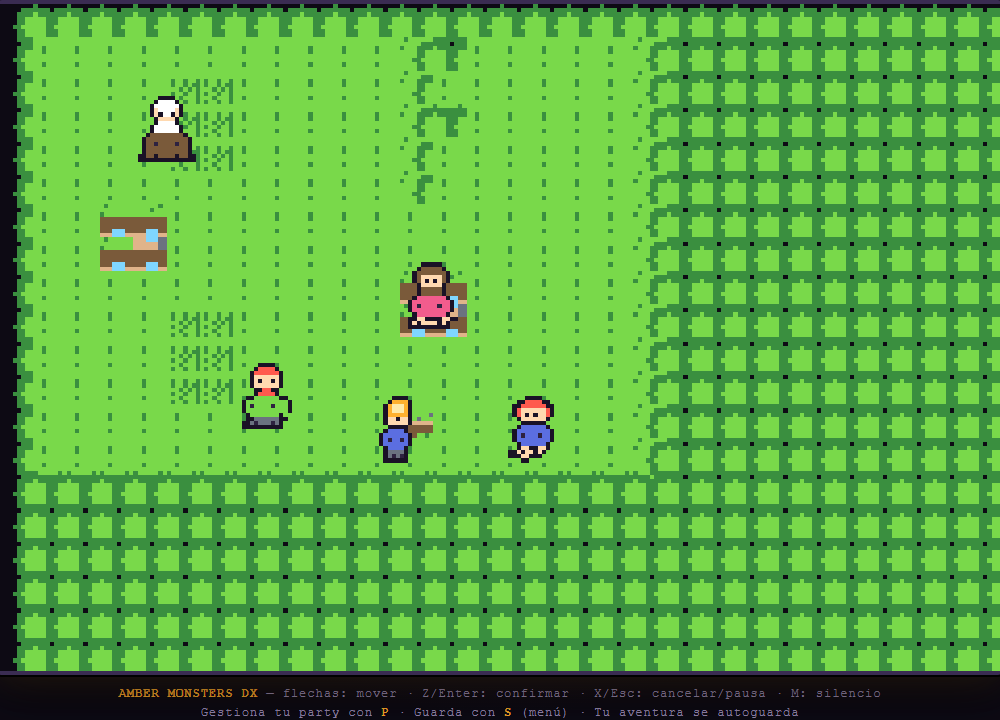
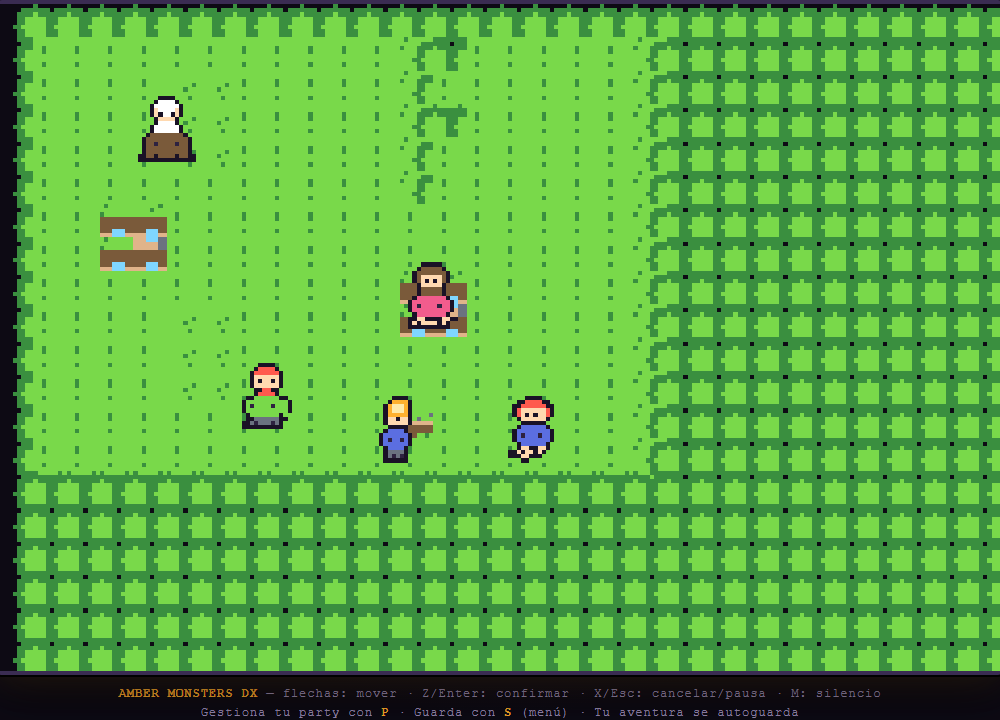
fix: distinguir hierba decorativa de la de encuentros en la aldea
La aldea tenia parches de hierba alta (^) identicos a la de la Ruta/Cueva,
pero encounter:null → parecian zonas de pelea y no disparaban nada (trampa de
UX). Nuevo tile 'G' (arbusto bajo) para la decoracion de la aldea; la hierba
alta real solo existe donde hay encuentros.

Changed region(s): [[0.155, 0.4278, 0.248, 0.5806], [0.155, 0.0917, 0.248, 0.2444]]

diff --git a/src/sprites/tiles.js b/src/sprites/tiles.js
@@ -58,6 +58,15 @@ function makeHighGrass(seed = 3) {
   return m;
 }
 
+// ---- Arbusto bajo (decorativo, NO dispara encuentros; se distingue de la hierba alta) ----
+function makeBush(seed = 13) {
+  const m = makeGrass(seed);
+  // manchas verdes oscuras bajas, sin mechones verticales altos
+  for (let x = 2; x < 16; x += 4) { m[10][x] = 11; m[11][x] = 11; }
+  for (let x = 4; x < 16; x += 5) { m[12][x] = 11; m[13][x] = 11; }
+  return m;
+}
+
 // ---- Árbol: copa redonda + tronco ----
 function makeTree() {
   const m = blank();
@@ -145,6 +154,7 @@ function makeHouse() {
 export const TILE_SPRITES = {
   '.': [makeGrass(1)],
   '^': [makeHighGrass(3)],
+  'G': [makeBush(13)],
   'F': [makeFlower()],
   'f': [makeFlower()],
   'R': [makeRock()],

diff --git a/src/world/tilemap.js b/src/world/tilemap.js
@@ -21,16 +21,16 @@ export const MAPS = {
     data: [
       '####################',
       '#...........TT.....#',
-      '#....^^.....#......#',
-      '#....^^.....TT.....#',
-      '#....^^.....#......#',
+      '#....GG.....#......#',
+      '#....GG.....TT.....#',
+      '#....GG.....#......#',
       '#...........T......#',
       '#..SS..............#',
       '#..SS..............#',
       '#...........HH.....#',
-      '#....^^.....HH.....#',
-      '#....^^............#',
-      '#....^^............#',
+      '#....GG.....HH.....#',
+      '#....GG............#',
+      '#....GG............#',
       '#...........B......#',
       '#....@@@@@@........#',
       '####################',
